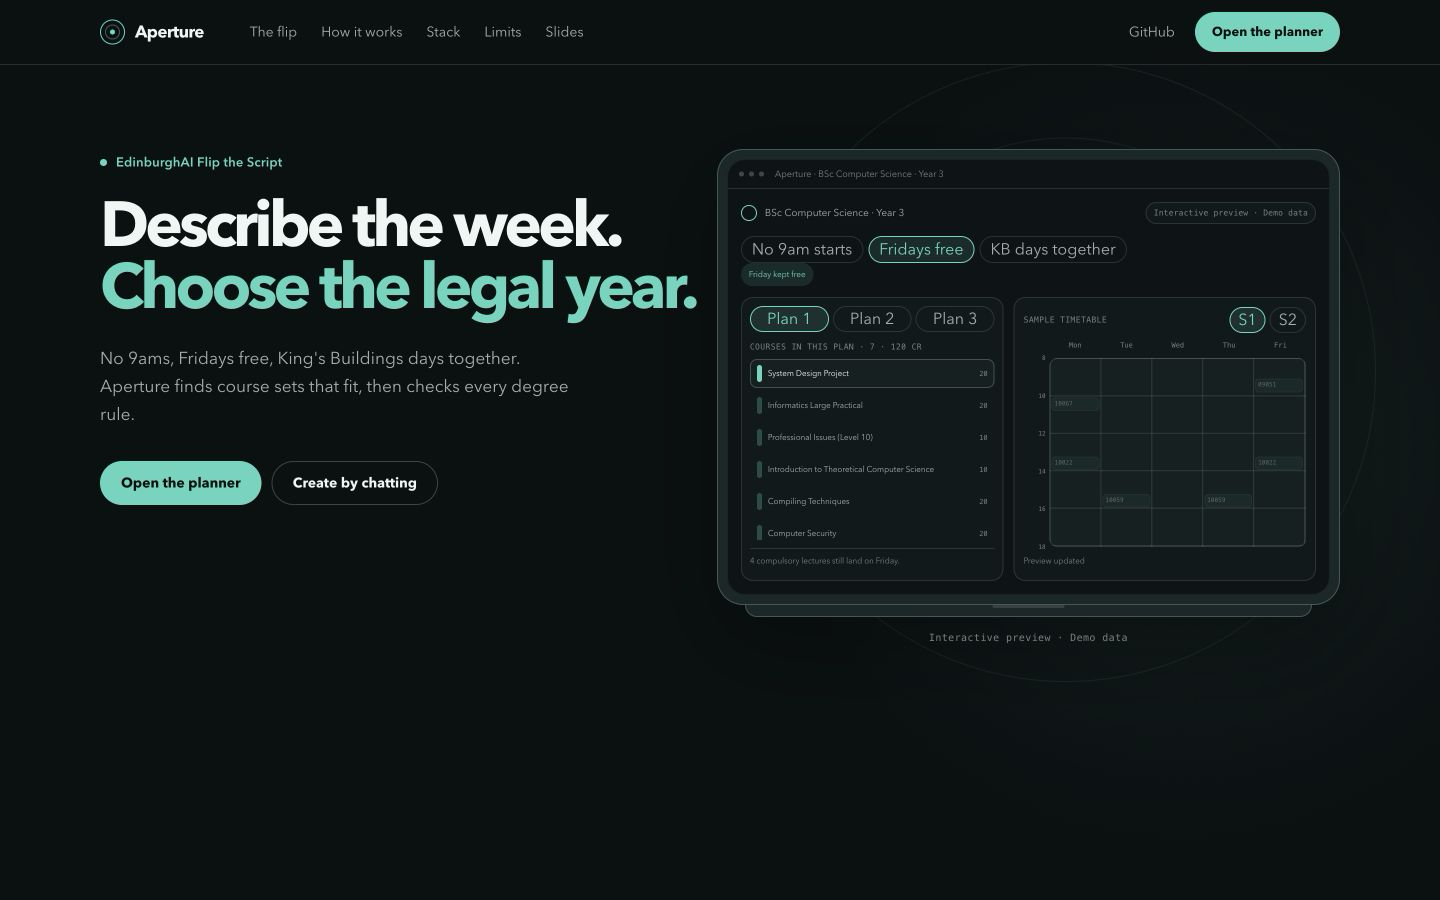
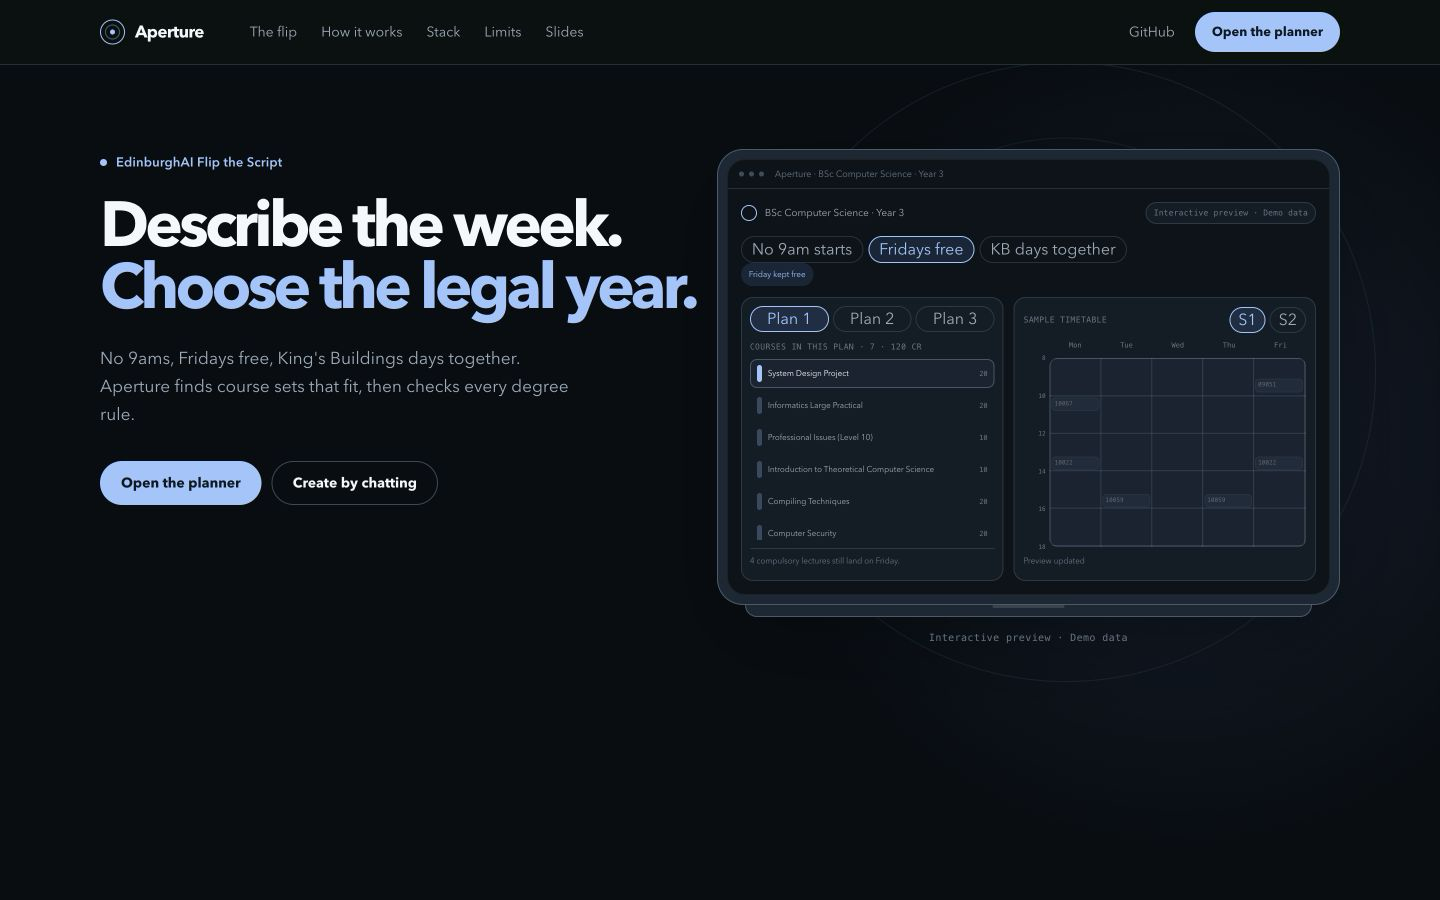
landing: match planner colours to slide deck

diff --git a/src/components/landing/landing.css b/src/components/landing/landing.css
@@ -1,25 +1,25 @@
 .lp-landing {
-  --landing-bg: #0a1011;
-  --landing-bg-soft: #0d1415;
-  --landing-surface: #10191a;
-  --landing-surface-2: #142021;
-  --landing-surface-3: #192728;
-  --landing-ink: #eff6f3;
-  --landing-muted: #a0afab;
-  --landing-faint: #74817e;
-  --landing-line: rgb(208 235 228 / 13%);
-  --landing-line-strong: rgb(208 235 228 / 24%);
-  --landing-accent: #55d6bd;
-  --landing-accent-ink: #06110e;
-  --landing-accent-soft: rgb(85 214 189 / 12%);
-  --landing-accent-medium: rgb(85 214 189 / 27%);
+  --landing-bg: #080d12;
+  --landing-bg-soft: #0c131a;
+  --landing-surface: #121c26;
+  --landing-surface-2: #172330;
+  --landing-surface-3: #1b2835;
+  --landing-ink: #f3f7fb;
+  --landing-muted: #9aaaba;
+  --landing-faint: #647487;
+  --landing-line: rgb(155 186 215 / 18%);
+  --landing-line-strong: rgb(155 186 215 / 34%);
+  --landing-accent: #9cc5ff;
+  --landing-accent-ink: #0b1825;
+  --landing-accent-soft: rgb(95 153 255 / 14%);
+  --landing-accent-medium: rgb(156 197 255 / 27%);
   --landing-radius-panel: 16px;
   --landing-radius-device: 26px;
 
   min-height: 100dvh;
   overflow-x: clip;
   background:
-    radial-gradient(circle at 82% 7%, rgb(85 214 189 / 8%), transparent 27rem),
+    radial-gradient(circle at 82% 7%, rgb(95 153 255 / 12%), transparent 27rem),
     linear-gradient(var(--landing-bg), var(--landing-bg));
   color: var(--landing-ink);
   color-scheme: dark;
@@ -117,7 +117,7 @@
 .lp-mark::after {
   content: "";
   position: absolute;
-  border: 1px solid rgb(85 214 189 / 42%);
+  border: 1px solid rgb(156 197 255 / 42%);
   border-radius: 50%;
 }
 
@@ -188,8 +188,8 @@
 
 .lp-primaryButton:hover {
   transform: translateY(-1px);
-  background: #6ee2cb;
-  border-color: #6ee2cb;
+  background: #b4d4ff;
+  border-color: #b4d4ff;
 }
 
 .lp-primaryButton:active,
@@ -350,7 +350,7 @@
   z-index: -1;
   width: min(48vw, 620px);
   aspect-ratio: 1;
-  border: 1px solid rgb(85 214 189 / 9%);
+  border: 1px solid rgb(156 197 255 / 9%);
   border-radius: 50%;
   transform: translate(-50%, -50%);
   pointer-events: none;
@@ -360,7 +360,7 @@
 .lp-iris::after {
   content: "";
   position: absolute;
-  border: 1px solid rgb(85 214 189 / 8%);
+  border: 1px solid rgb(156 197 255 / 8%);
   border-radius: inherit;
 }
 
@@ -640,7 +640,7 @@
   height: 19px;
   transform: translateX(-50%);
   border-radius: 999px;
-  background: #060a0b;
+  background: #05090d;
 }
 
 .lp-phoneNotch::after {
@@ -651,7 +651,7 @@
   width: 5px;
   height: 5px;
   border-radius: 50%;
-  background: #142021;
+  background: #172330;
 }
 
 .lp-browserBar {
@@ -1009,9 +1009,9 @@
 .lp-block {
   position: absolute;
   overflow: hidden;
-  border: 1px solid rgb(85 214 189 / 11%);
+  border: 1px solid rgb(156 197 255 / 11%);
   border-radius: 4px;
-  background: rgb(85 214 189 / 12%);
+  background: rgb(156 197 255 / 12%);
   padding: 2px;
   color: rgb(239 246 243 / 72%);
   font-family: ui-monospace, "SF Mono", Menlo, Consolas, monospace;
@@ -1192,7 +1192,7 @@
 }
 
 .lp-rule[open] {
-  border-color: rgb(85 214 189 / 38%);
+  border-color: rgb(156 197 255 / 38%);
 }
 
 .lp-ruleSummary {
@@ -1279,7 +1279,7 @@
   color: var(--landing-accent);
   font-size: 8px;
   text-decoration: underline;
-  text-decoration-color: rgb(85 214 189 / 35%);
+  text-decoration-color: rgb(156 197 255 / 35%);
   text-underline-offset: 3px;
 }
 
@@ -1346,7 +1346,7 @@
 .lp-stackItem:nth-child(1) {
   grid-column: span 7;
   background:
-    radial-gradient(circle at 96% 6%, rgb(85 214 189 / 16%), transparent 11rem),
+    radial-gradient(circle at 96% 6%, rgb(156 197 255 / 16%), transparent 11rem),
     var(--landing-surface);
 }
 

diff --git a/src/app/globals.css b/src/app/globals.css
@@ -41,22 +41,22 @@ body {
 }
 
 .chat-theme {
-  --color-bg: #0e1318;
-  --color-surface: #18212a;
-  --color-panel: #121920;
-  --color-panel-2: #222d38;
-  --color-rule: #293540;
-  --color-line: #3b4a59;
-  --color-line-strong: #566575;
-  --color-fg: #f5f7fa;
-  --color-fg-muted: #b7c3cf;
-  --color-fg-faint: #91a0ae;
+  --color-bg: #080d12;
+  --color-surface: #0c131a;
+  --color-panel: #121c26;
+  --color-panel-2: #172330;
+  --color-rule: rgb(155 186 215 / 10%);
+  --color-line: rgb(155 186 215 / 18%);
+  --color-line-strong: rgb(155 186 215 / 34%);
+  --color-fg: #f3f7fb;
+  --color-fg-muted: #9aaaba;
+  --color-fg-faint: #647487;
   --color-accent: #9cc5ff;
-  --color-accent-soft: #203a57;
-  --color-accent-dim: #203a57;
-  --color-accent-ink: #0b1622;
-  --color-warning: #f3c879;
-  --color-course-ink: #101820;
+  --color-accent-soft: rgb(95 153 255 / 14%);
+  --color-accent-dim: rgb(95 153 255 / 14%);
+  --color-accent-ink: #0b1825;
+  --color-warning: #ff9a70;
+  --color-course-ink: #0b1825;
 
   background: var(--color-bg);
   color: var(--color-fg);

diff --git a/src/components/Chat.tsx b/src/components/Chat.tsx
@@ -149,7 +149,7 @@ export function Chat({ student, courses, preferences, onPreferencesChange }: Cha
         <button
           type="submit"
           disabled={busy || !draft.trim()}
-          className="h-10 rounded-md bg-accent px-4 text-[15px] font-medium text-white disabled:opacity-40"
+          className="h-10 rounded-md bg-accent px-4 text-[15px] font-medium text-accent-ink disabled:opacity-40"
         >
           {busy ? "…" : "Send"}
         </button>

diff --git a/src/app/home.tsx b/src/app/home.tsx
@@ -130,7 +130,7 @@ export function Home() {
   }
 
   return (
-    <div className="flex h-dvh flex-col bg-bg text-fg">
+    <div className="chat-theme flex h-dvh flex-col bg-bg text-fg">
       <header className="flex h-14 shrink-0 items-center gap-6 border-b border-line px-6">
         <Link href="/" className="text-[17px] font-semibold tracking-tight hover:text-fg">
           Aperture

diff --git a/src/components/WeekView.tsx b/src/components/WeekView.tsx
@@ -19,7 +19,7 @@ export const COURSE_TINTS = [
   "hsl(180 50% 87%)",
 ];
 
-export const FORCED_OUTLINE = "#b7791f";
+export const FORCED_OUTLINE = "#ff9a70";
 
 /** The export lists one row per week range; a lecture taught weeks 1-2 and 3-10 at the same time is one cell here. */
 export function mergeWeekRanges(slots: readonly Slot[]): Slot[] {
